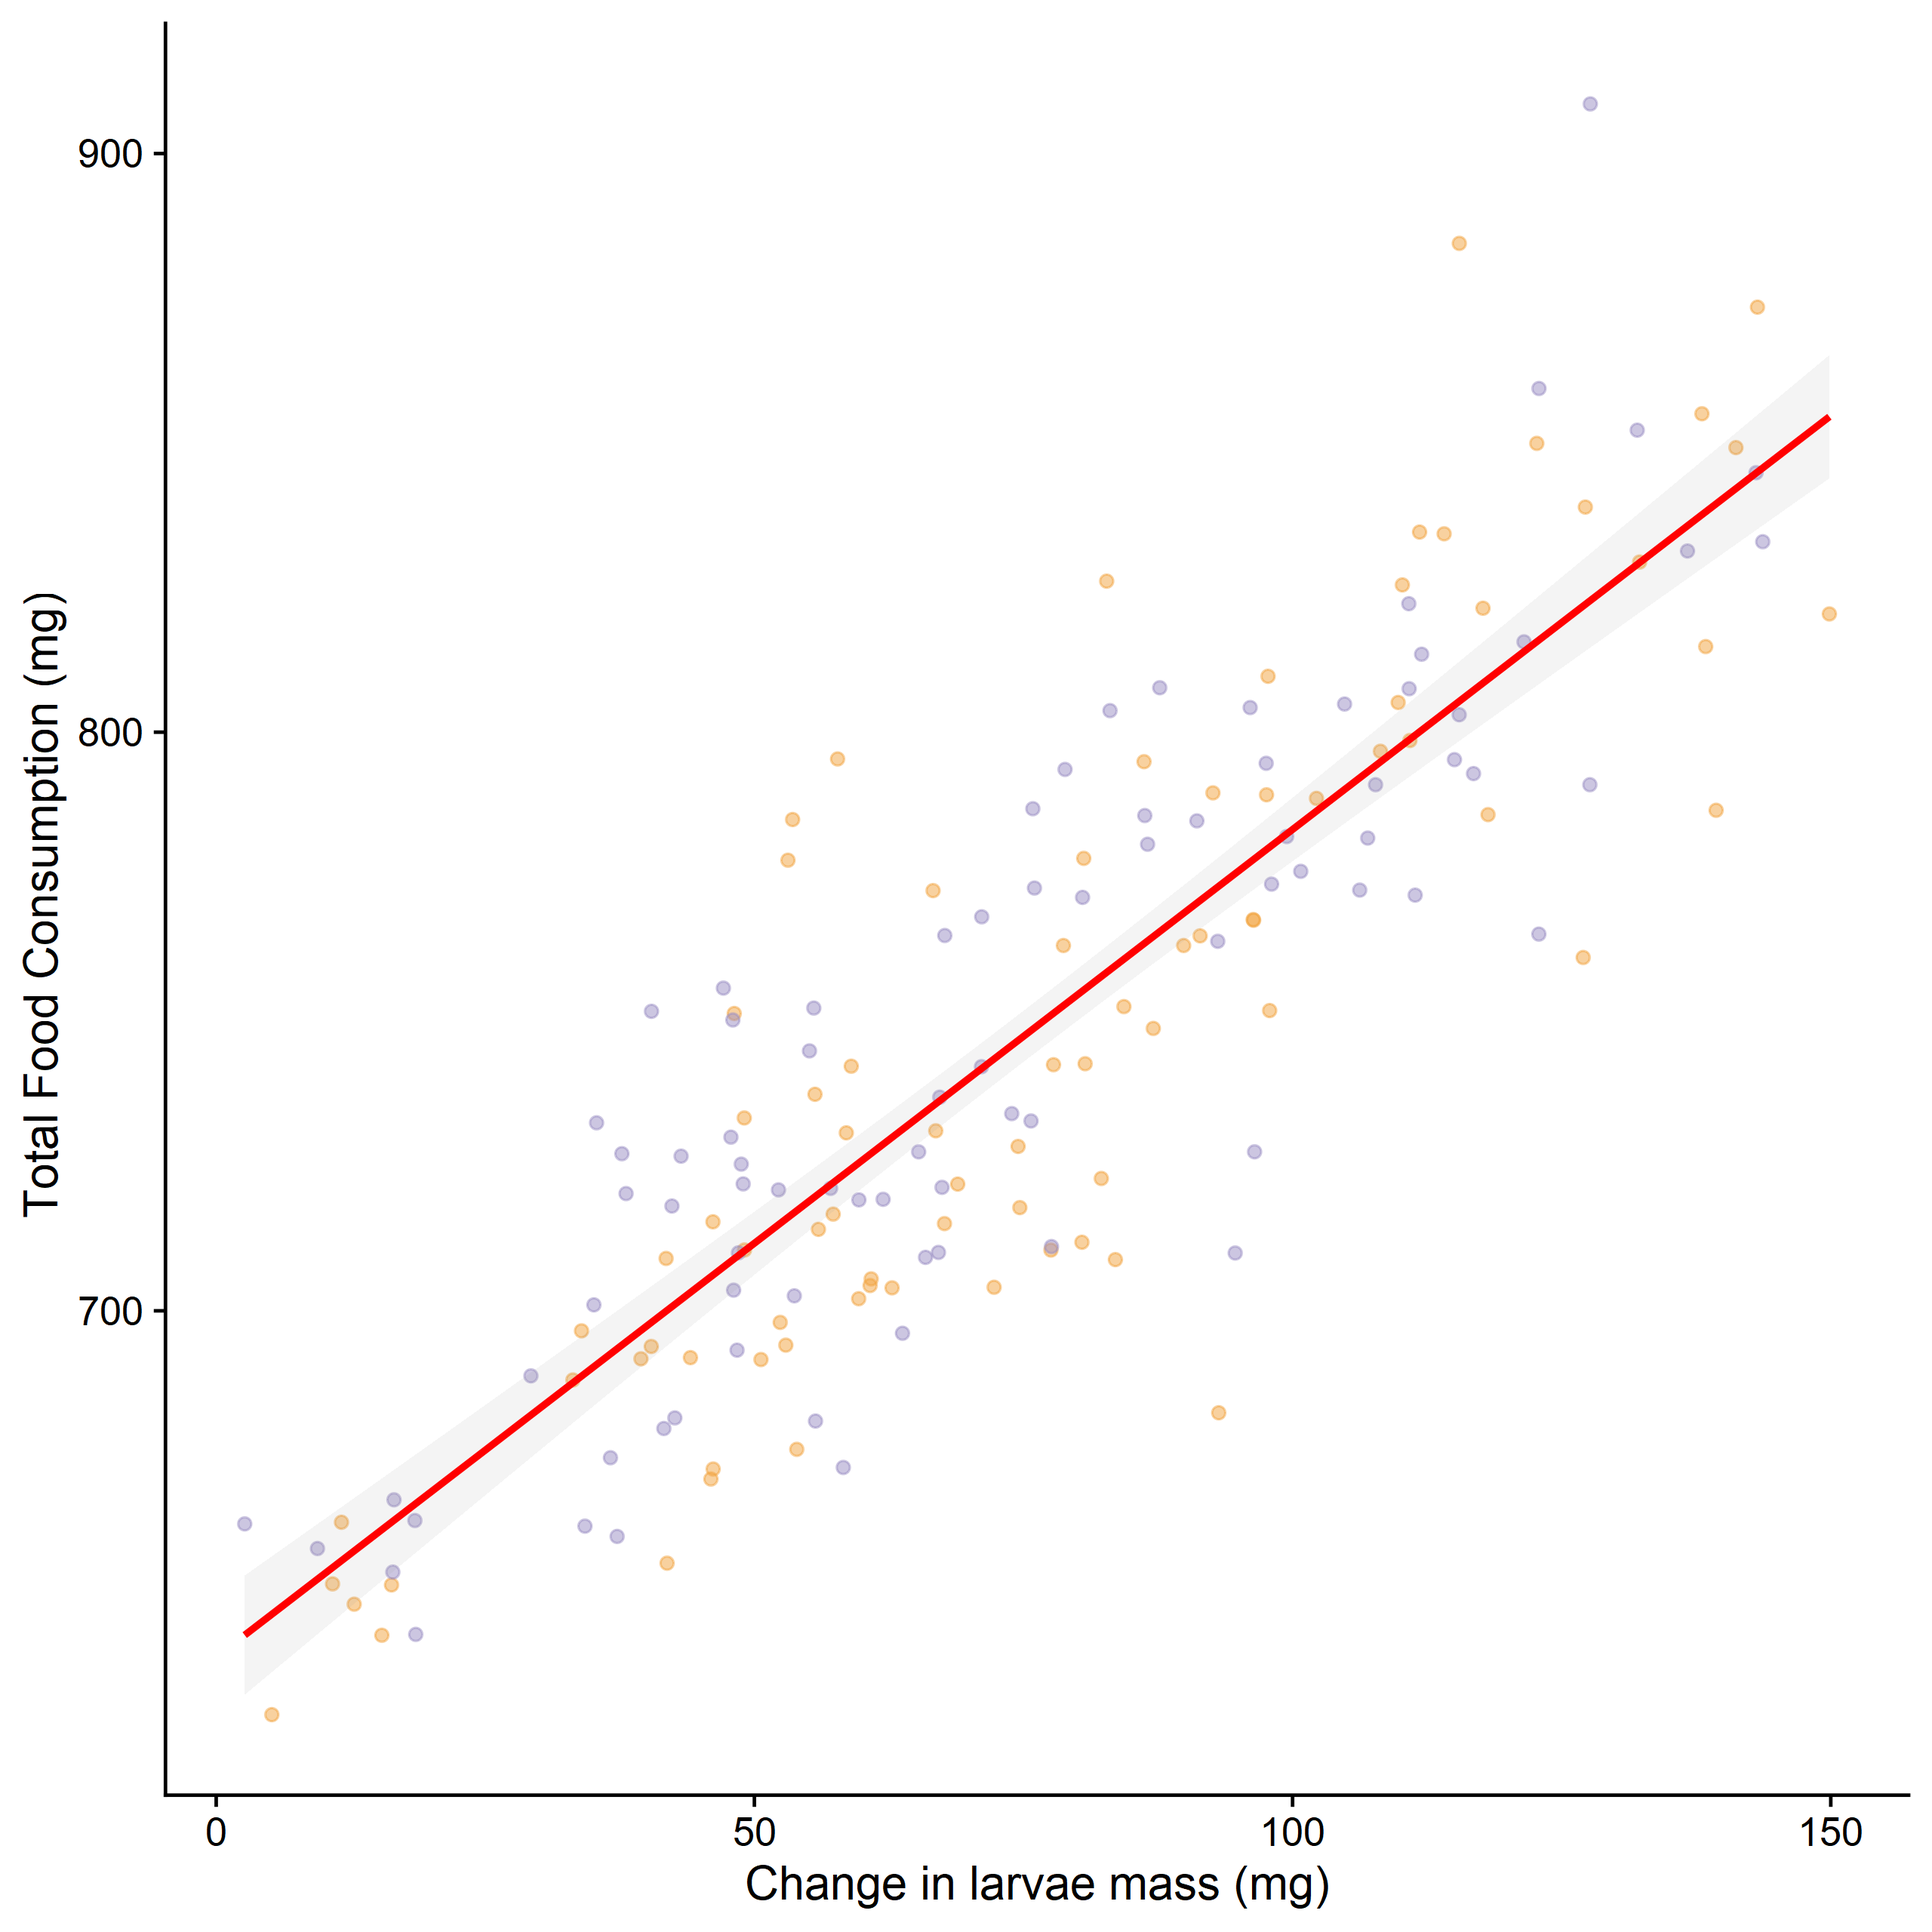
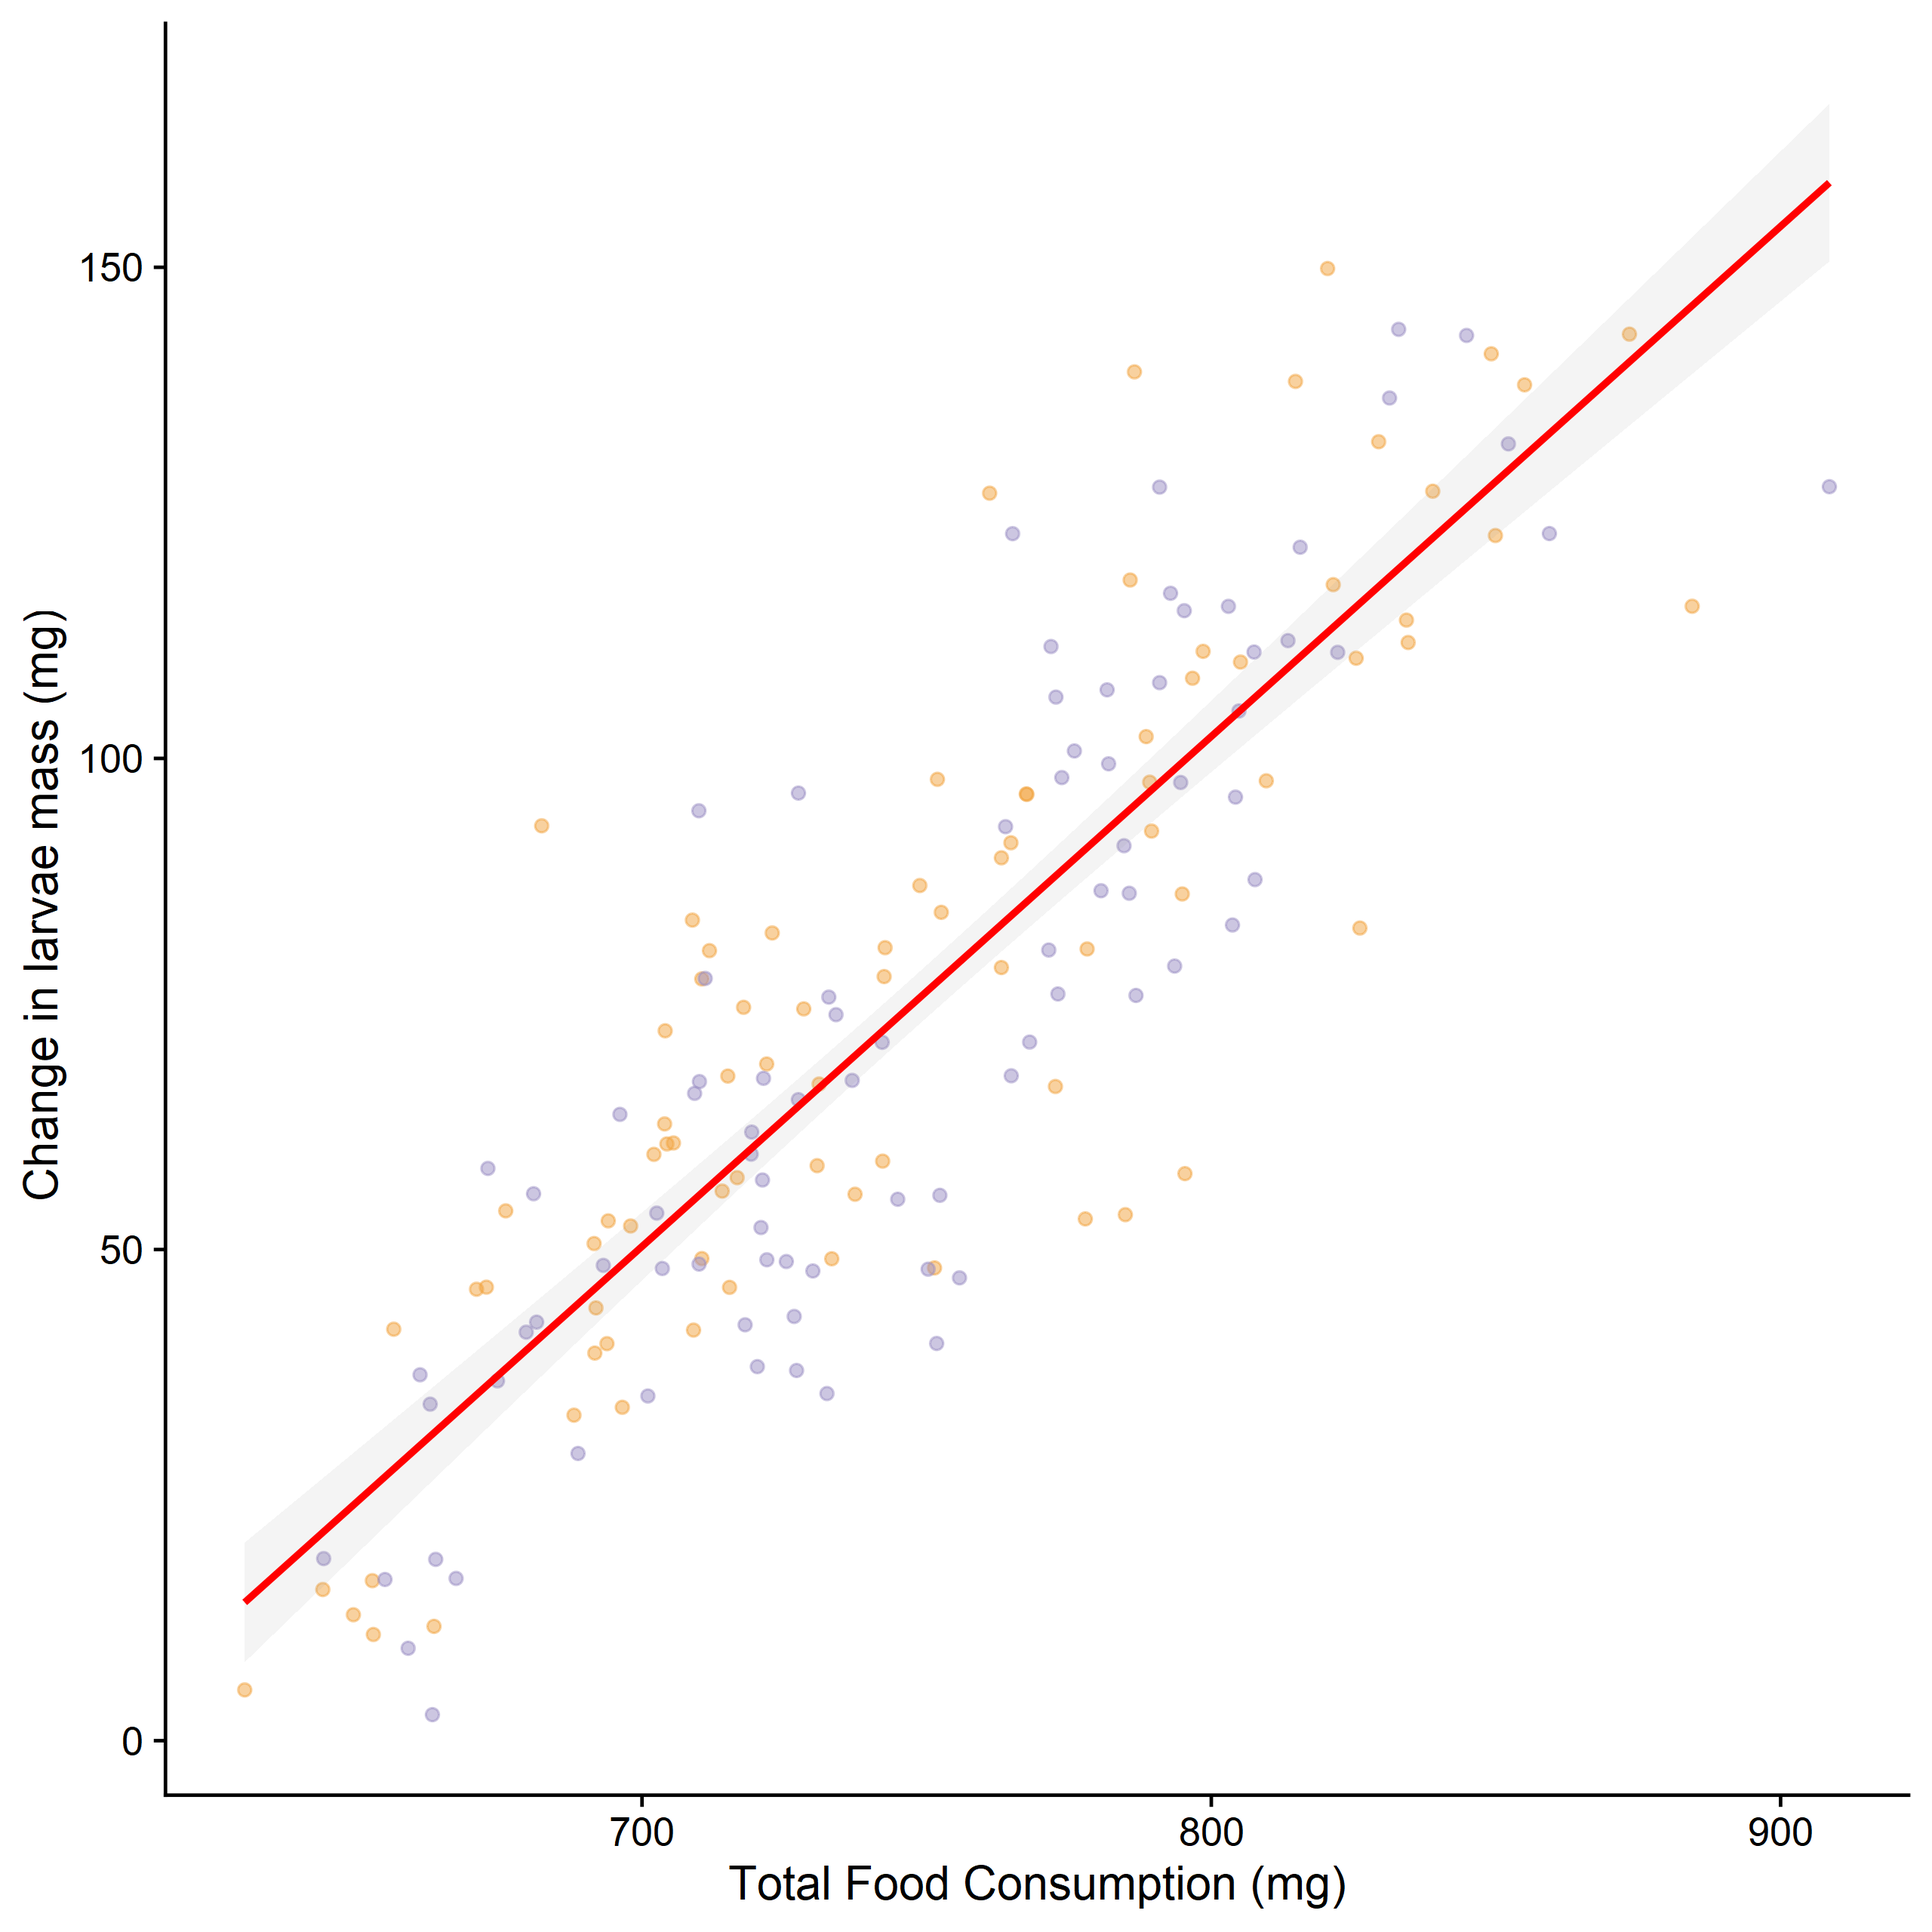
fix mistakes in mass plot + analysis

diff --git a/model_summaries/Mass_Experiment_1.html b/model_summaries/Mass_Experiment_1.html
@@ -1,7 +1,7 @@
 <table style="border-collapse:collapse; border:none;">
 <tr>
 <th style="border-top: double; text-align:center; font-style:normal; font-weight:bold; padding:0.2cm;  text-align:left; ">&nbsp;</th>
-<th colspan="3" style="border-top: double; text-align:center; font-style:normal; font-weight:bold; padding:0.2cm; ">f_total</th>
+<th colspan="3" style="border-top: double; text-align:center; font-style:normal; font-weight:bold; padding:0.2cm; ">mass_diff</th>
 </tr>
 <tr>
 <td style=" text-align:center; border-bottom:1px solid; font-style:italic; font-weight:normal;  text-align:left; ">Predictors</td>
@@ -11,14 +11,14 @@
 </tr>
 <tr>
 <td style=" padding:0.2cm; text-align:left; vertical-align:top; text-align:left; ">(Intercept)</td>
-<td style=" padding:0.2cm; text-align:left; vertical-align:top; text-align:center;  ">640.17</td>
-<td style=" padding:0.2cm; text-align:left; vertical-align:top; text-align:center;  ">629.56&nbsp;&ndash;&nbsp;650.78</td>
+<td style=" padding:0.2cm; text-align:left; vertical-align:top; text-align:center;  ">-313.15</td>
+<td style=" padding:0.2cm; text-align:left; vertical-align:top; text-align:center;  ">-348.24&nbsp;&ndash;&nbsp;-278.05</td>
 <td style=" padding:0.2cm; text-align:left; vertical-align:top; text-align:center;  "><strong>&lt;0.001</td>
 </tr>
 <tr>
-<td style=" padding:0.2cm; text-align:left; vertical-align:top; text-align:left; ">mass_diff</td>
-<td style=" padding:0.2cm; text-align:left; vertical-align:top; text-align:center;  ">1.43</td>
-<td style=" padding:0.2cm; text-align:left; vertical-align:top; text-align:center;  ">1.30&nbsp;&ndash;&nbsp;1.56</td>
+<td style=" padding:0.2cm; text-align:left; vertical-align:top; text-align:left; ">f_total</td>
+<td style=" padding:0.2cm; text-align:left; vertical-align:top; text-align:center;  ">0.52</td>
+<td style=" padding:0.2cm; text-align:left; vertical-align:top; text-align:center;  ">0.47&nbsp;&ndash;&nbsp;0.57</td>
 <td style=" padding:0.2cm; text-align:left; vertical-align:top; text-align:center;  "><strong>&lt;0.001</td>
 </tr>
 <tr>
